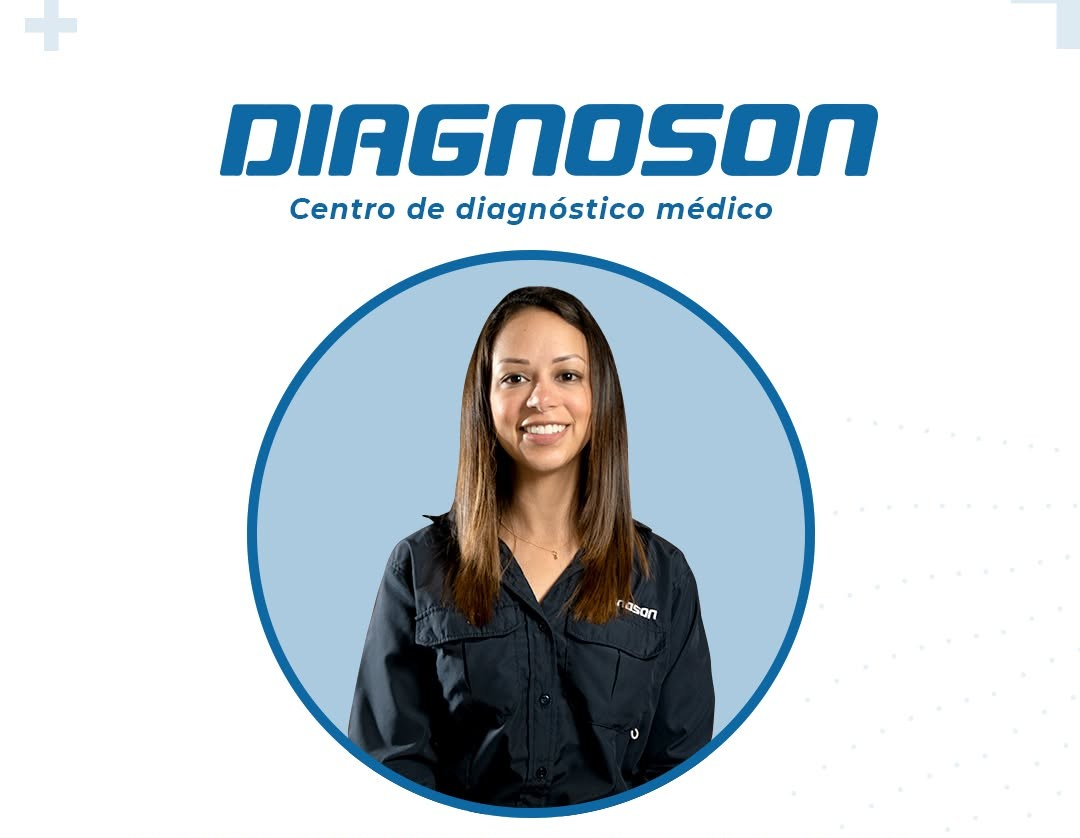
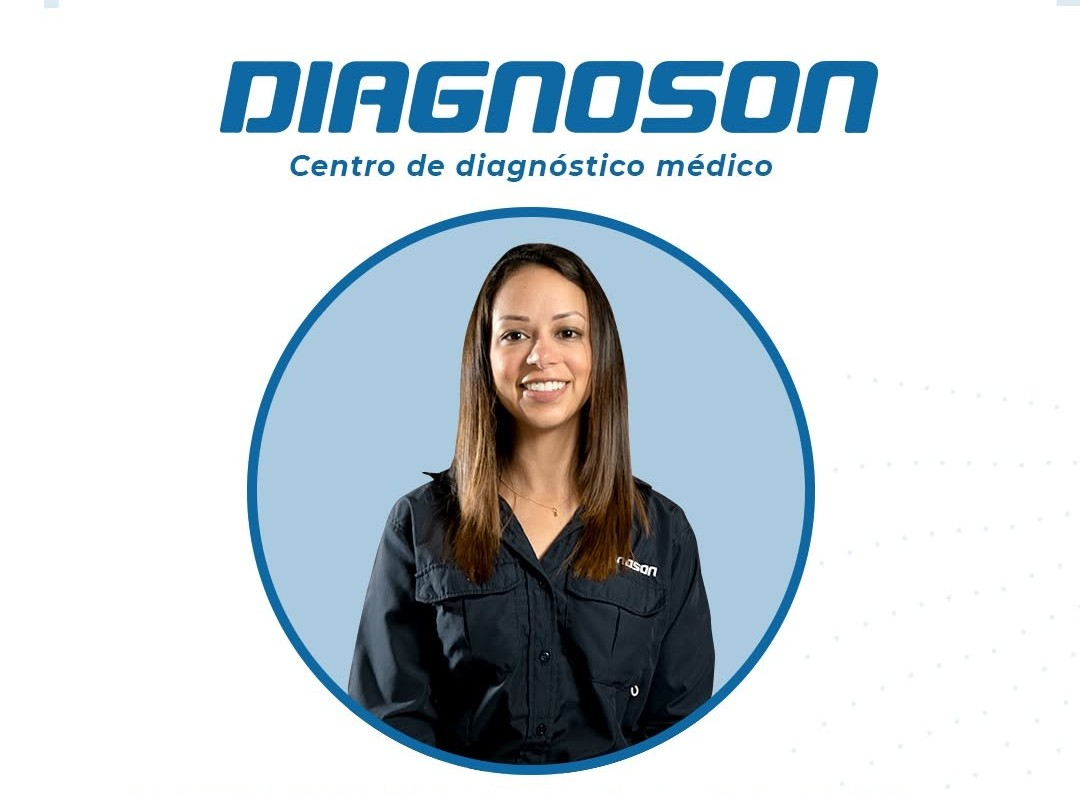
foto maria isabel

diff --git a/Especialistas.html b/Especialistas.html
@@ -67,7 +67,7 @@
 
                 <article class="card-especialista">
                     <div class="img-container">
-                        <img src="pic/doctor2.jpg" alt="Dra. María Carranza">
+                        <img src="pic/Maria Carranza.jpg" alt="Dra. María Carranza">
                     </div>
                     <div class="info-especialista">
                         <span class="especialidad-tag">Medico General</span>
